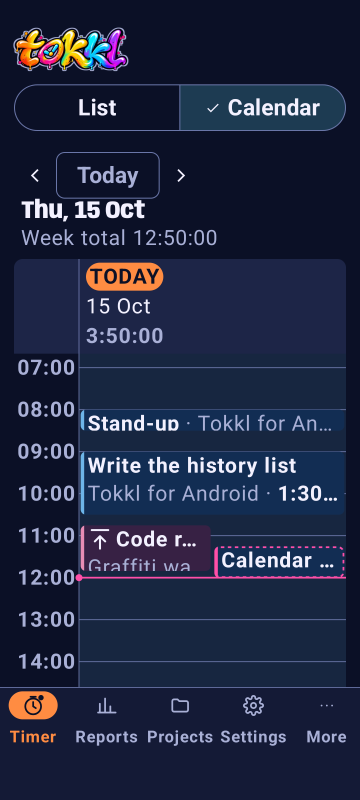
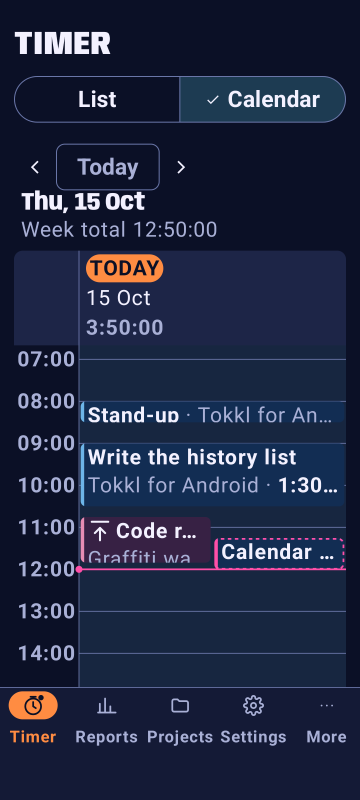
feat: title the Timer page instead of showing the wordmark
The Timer page now starts with its page title, TIMER, where the medium
wordmark sat, with the same spacing as the other top-level pages. It is
a heading that TalkBack reads as "Timer", and on a short window it
scrolls away with the List and Calendar switch, as the wordmark did.
The wordmark stays on sign-in.

docs/PRD.md now says the wordmark appears only on the sign-in screen and
the launch splash, never in a page header or top bar. AGENTS.md,
README.md and the KDocs of TimerScreen, WeekCalendar, BrandSize and the
brand sizes screenshot no longer place the wordmark on the Timer page
or in a header.

LaunchScreenTest checks the title heading and that no wordmark shows,
LargestFontScaleTest counts the title among the Timer page's parts, and
the eight timer and calendar references are re-recorded on tokkl-api36.

Refs: TKA-0182

Changed region(s): [[0.0306, 0.4062, 0.9778, 0.8438], [0.0306, 0.0312, 0.9778, 0.4375], [0.825, 0.5938, 0.9472, 0.625]]

diff --git a/app/src/androidTest/java/com/github/e0ipso/tokkl/LaunchScreenTest.kt b/app/src/androidTest/java/com/github/e0ipso/tokkl/LaunchScreenTest.kt
@@ -2,16 +2,20 @@ package com.github.e0ipso.tokkl
 
 import androidx.annotation.StringRes
 import androidx.compose.ui.semantics.Role
+import androidx.compose.ui.semantics.SemanticsActions
 import androidx.compose.ui.semantics.SemanticsProperties
 import androidx.compose.ui.semantics.getOrNull
 import androidx.compose.ui.test.SemanticsMatcher
+import androidx.compose.ui.test.assertCountEquals
 import androidx.compose.ui.test.assertIsDisplayed
 import androidx.compose.ui.test.assertIsSelected
+import androidx.compose.ui.test.hasContentDescription
 import androidx.compose.ui.test.hasText
+import androidx.compose.ui.test.isHeading
 import androidx.compose.ui.test.isSelectable
 import androidx.compose.ui.test.junit4.v2.createAndroidComposeRule
-import androidx.compose.ui.test.onNodeWithContentDescription
-import com.github.e0ipso.tokkl.ui.assertBrandReadsOnce
+import androidx.compose.ui.test.performSemanticsAction
+import androidx.compose.ui.text.TextLayoutResult
 import org.junit.Assert.assertEquals
 import org.junit.Rule
 import org.junit.Test
@@ -25,15 +29,14 @@ class LaunchScreenTest {
     val composeRule = createAndroidComposeRule<MainActivity>()
 
     /**
-     * The page shows the brand, where the timer goes, and the List and Calendar switch with List
+     * The page shows its title, where the timer goes, and the List and Calendar switch with List
      * chosen. The bar holds the web app's phone items in its order, and marks Timer.
      */
     @Test
     fun opensOnTheTimerPageWithTheBottomBar() {
         composeRule.awaitTimerPage()
 
-        // The brand's wordmark, an image that TalkBack reads as the app's name.
-        composeRule.onNodeWithContentDescription(string(R.string.app_name)).assertIsDisplayed()
+        composeRule.onNode(hasText(string(R.string.nav_timer)) and isHeading()).assertIsDisplayed()
         composeRule.onNode(hasText(string(R.string.timer_view_list)) and isSelectable()).assertIsSelected()
         composeRule.onNode(hasText(string(R.string.timer_view_calendar)) and isSelectable()).assertIsDisplayed()
 
@@ -46,12 +49,23 @@ class LaunchScreenTest {
         assertEquals(listOf(true, false, false, false, false), tabs.map { it.config.getOrNull(SemanticsProperties.Selected) })
     }
 
-    /** TalkBack reads the brand on the Timer page, the wordmark alone, once, as "Tokkl". */
+    /**
+     * The page title shows in capitals, and TalkBack reads it once, as the heading "Timer" in
+     * sentence case. No wordmark shows: it appears only on sign-in and the launch splash.
+     */
     @Test
-    fun theBrandIsOneTalkBackNode() {
+    fun theTitleIsOneTalkBackHeadingAndNoWordmarkShows() {
         composeRule.awaitTimerPage()
 
-        composeRule.assertBrandReadsOnce()
+        val title = string(R.string.nav_timer)
+        val headings = composeRule.onAllNodes(hasText(title) and isHeading())
+        headings.assertCountEquals(1)
+        val heading = headings[0]
+        assertEquals(listOf(title), heading.fetchSemanticsNode().config.getOrNull(SemanticsProperties.Text)?.map { it.text })
+        val drawn = mutableListOf<TextLayoutResult>()
+        heading.performSemanticsAction(SemanticsActions.GetTextLayoutResult) { it(drawn) }
+        assertEquals(title.uppercase(), drawn.single().layoutInput.text.text)
+        composeRule.onAllNodes(hasContentDescription(string(R.string.app_name))).assertCountEquals(0)
     }
 
     private fun string(@StringRes id: Int): String = composeRule.activity.getString(id)

diff --git a/app/src/main/java/com/github/e0ipso/tokkl/timer/TimerScreen.kt b/app/src/main/java/com/github/e0ipso/tokkl/timer/TimerScreen.kt
@@ -15,11 +15,8 @@ import androidx.compose.material3.Text
 import androidx.compose.runtime.Composable
 import androidx.compose.ui.Modifier
 import androidx.compose.ui.res.stringResource
-import androidx.compose.ui.semantics.heading
-import androidx.compose.ui.semantics.semantics
 import com.github.e0ipso.tokkl.R
-import com.github.e0ipso.tokkl.ui.Brand
-import com.github.e0ipso.tokkl.ui.BrandSize
+import com.github.e0ipso.tokkl.ui.PageTitle
 import com.github.e0ipso.tokkl.ui.ScrollAwayColumn
 import com.github.e0ipso.tokkl.ui.theme.ScrollingScreenInsets
 import com.github.e0ipso.tokkl.ui.theme.TokklTheme
@@ -40,11 +37,12 @@ enum class TimerView(@StringRes val label: Int, val preferenceValue: String) {
 /**
  * The Timer page, the first page after sign-in (docs/PRD.md B2), as the web app's TimerPage.tsx
  * lays it out: the timer, then the List and Calendar switch, then the entries in the chosen [view]. The timer
- * (TKA-0039) is not built yet, so the brand stands in its place.
+ * (TKA-0039) is not built yet. The page starts with its title, as the other top-level pages do,
+ * and never with the wordmark, which stays out of page headers (docs/PRD.md, Wordmark).
  *
  * [listContent], the history, and [calendarContent], the calendar, fill the rest of the page
  * under the switch, with a bounded height, so each scrolls on its own. On a window of compact
- * height, such as a phone held sideways, the brand and the switch scroll away as the entries
+ * height, such as a phone held sideways, the title and the switch scroll away as the entries
  * scroll on, so the entries get the page's whole height ([ScrollAwayColumn]).
  */
 @Composable
@@ -64,7 +62,7 @@ fun TimerScreen(
                 .screenContent(),
             top = {
                 Spacer(Modifier.height(TokklTheme.spacing.space2))
-                Brand(BrandSize.MEDIUM, Modifier.semantics { heading() })
+                PageTitle(stringResource(R.string.nav_timer))
                 Spacer(Modifier.height(TokklTheme.spacing.underTopBar))
                 ViewSwitch(view, onViewChange)
                 Spacer(Modifier.height(TokklTheme.spacing.betweenGroups))

diff --git a/app/src/androidTest/java/com/github/e0ipso/tokkl/calendar/LandscapeCalendarTest.kt b/app/src/androidTest/java/com/github/e0ipso/tokkl/calendar/LandscapeCalendarTest.kt
@@ -50,10 +50,10 @@ import org.junit.rules.RuleChain
 
 /**
  * The Timer page's Calendar view on a phone held sideways, a window of compact height (docs/PRD.md
- * K1). Once the calendar scrolls on, the brand, the view switch and the toolbar have scrolled
- * away, and the grid shows at least [hourRows] whole hour rows under the day heads, which stay in
- * the window. The view switch and every toolbar control scroll back into the window whole, as
- * TalkBack scrolls to them.
+ * K1). Once the calendar scrolls on, the page title, the view switch and the toolbar have
+ * scrolled away, and the grid shows at least [hourRows] whole hour rows under the day heads,
+ * which stay in the window. The view switch and every toolbar control scroll back into the window
+ * whole, as TalkBack scrolls to them.
  */
 abstract class LandscapeCalendarTest(fontScale: Float, private val hourRows: Int) {
     private val composeRule = createEmptyComposeRule()

diff --git a/app/src/main/java/com/github/e0ipso/tokkl/calendar/WeekCalendar.kt b/app/src/main/java/com/github/e0ipso/tokkl/calendar/WeekCalendar.kt
@@ -108,7 +108,7 @@ import kotlinx.coroutines.delay
  * long as it lasts, in the account's timezone. On a compact window, a phone held upright, it
  * shows the chosen day alone, and the arrows and a swipe move a day instead of a week. On a
  * window of compact height, a phone held sideways, the toolbar scrolls away as the grid scrolls
- * on, after the Timer page's brand and switch, and the day heads stay. The running entry's block
+ * on, after the Timer page's title and switch, and the day heads stay. The running entry's block
  * grows with the phone's clock, once a minute while the page shows, and sends no request.
  */
 @Composable

diff --git a/app/src/main/java/com/github/e0ipso/tokkl/ui/Brand.kt b/app/src/main/java/com/github/e0ipso/tokkl/ui/Brand.kt
@@ -31,10 +31,10 @@ enum class BrandSize(
     internal val wordmarkWidth: Dp,
     @DrawableRes internal val wordmark: Int,
 ) {
-    /** A header strip. */
+    /** Tokkl's sm. No screen shows it: the wordmark never sits in a page header or a top bar. */
     SMALL(84.dp, R.drawable.tokkl_wordmark_sm),
 
-    /** Beside a column of navigation. */
+    /** Tokkl's md. No screen shows it either. */
     MEDIUM(130.dp, R.drawable.tokkl_wordmark_md),
 
     /** On its own above a screen's content, as on sign-in. */

diff --git a/app/src/androidTest/java/com/github/e0ipso/tokkl/ui/screenshot/ScreenshotTest.kt b/app/src/androidTest/java/com/github/e0ipso/tokkl/ui/screenshot/ScreenshotTest.kt
@@ -331,8 +331,8 @@ abstract class ScreenshotTest(private val dark: Boolean, private val fontScale: 
     }
 
     /**
-     * The brand's two smaller sizes, for a header strip and beside a navigation column, each with
-     * its own image. Sign-in shows the large one.
+     * The brand's two smaller sizes, each with its own image. No screen shows them, since the
+     * wordmark stays out of page headers and top bars. Sign-in shows the large one.
      */
     @SignedOut
     @Test

diff --git a/app/src/androidTest/java/com/github/e0ipso/tokkl/ui/theme/LargestFontScaleTest.kt b/app/src/androidTest/java/com/github/e0ipso/tokkl/ui/theme/LargestFontScaleTest.kt
@@ -642,7 +642,7 @@ class LargestFontScaleTest {
      */
     private fun timerPageParts(): List<Pair<String, SemanticsNodeInteraction>> =
         listOf(
-            brand(),
+            heading(R.string.nav_timer),
             "view switch" to composeRule.onNode(
                 SemanticsMatcher.keyIsDefined(SemanticsProperties.SelectableGroup) and
                     hasAnyDescendant(hasText(string(R.string.timer_view_list))),

diff --git a/docs/PRD.md b/docs/PRD.md
@@ -77,7 +77,7 @@ Decisions:
 - **Colour.** Always Tokkl's palette, never the wallpaper. Light theme: sand background, ink text, sunset orange primary, aqua secondary, hot pink and lime for states. Dark theme: navy background with the neon counterparts. The source of truth is the colour tokens in `../tokkl/packages/web/src/styles.css`. Dynamic color is off, at most an opt-in setting.
 - **Type.** Anybody for the running clock, totals and headings, bundled with the app. Tokkl already ships it under the SIL Open Font License 1.1 (`../tokkl/packages/web/public/fonts/OFL.txt`). Everything else uses the system font.
 - **Spacing and type scale.** Spacing is 4, 8, 12, 16, 20, 24, 32 and 48dp, Tokkl's `--space-1` to `--space-8`. Screens keep a 16dp margin on compact widths and 24dp on medium and wider, and content is capped at 600dp. Anybody, always at width 85, sets the page title (28sp, weight 900, uppercase), clock (36sp, 800), totals (28sp, 800), day total (22sp, 800), day header (17sp, 900, uppercase), card title (18sp, 800) and section heading (16sp, 800). The system font sets body text at 16, 14 and 12sp, the small-caps label at 12sp weight 700 and the button label at 14sp weight 700. A monospace role sets fingerprints and codes.
-- **Wordmark.** The owner's graffiti artwork, shipped as an image with the content description "Tokkl" for TalkBack, so it uses no font. In dark mode a 1dp halo in `--wordmark-halo` (#A9B0D6) traces its edge, because the artwork's navy outline matches the background there. Light mode draws no halo. See `../tokkl/docs/PRD.md`, Visual direction, Typeface.
+- **Wordmark.** The owner's graffiti artwork, shipped as an image with the content description "Tokkl" for TalkBack, so it uses no font. It appears on the sign-in screen and the launch splash only, never in a page header or a top bar. In dark mode a 1dp halo in `--wordmark-halo` (#A9B0D6) traces its edge, because the artwork's navy outline matches the background there. Light mode draws no halo. See `../tokkl/docs/PRD.md`, Visual direction, Typeface.
 - **Logo.** The logo appears only as the launcher icon, never beside the wordmark. The wordmark's "o" is a clock, but that clock is a letter of the wordmark, not the logo.
 - **Texture.** Gradients or vectors only, never raster images, and never behind inputs or data. See `../tokkl/docs/PRD.md`, Visual direction, Texture.
 - **Type effects.** Rotated or skewed type is decoration only. It never appears on controls, numbers or labels. See `../tokkl/docs/PRD.md`, Visual direction, Type effects.

diff --git a/AGENTS.md b/AGENTS.md
@@ -1,6 +1,6 @@
 # Tokkl for Android
 
-Native Android client for the Tokkl server and for Toggl Track. The repo holds a Gradle project with a sign-in screen and, behind a bottom navigation bar, a Timer page that lists past entries by day or shows them on a week calendar, with the brand where the timer will go, a Reports screen with the summary, detailed and weekly reports, Projects and Clients pages that create, edit, archive and restore projects and clients on the server, a Tags page that creates, renames and deletes tags, a placeholder page for the trash, a settings screen and a Licences screen so far, joined by a navigation host, plus an offline cache of the account's data and a queue that sends time entry changes made on the phone, in order; [docs/PRD.md](docs/PRD.md) is the source of truth for scope and decisions.
+Native Android client for the Tokkl server and for Toggl Track. The repo holds a Gradle project with a sign-in screen and, behind a bottom navigation bar, a Timer page that lists past entries by day or shows them on a week calendar, a Reports screen with the summary, detailed and weekly reports, Projects and Clients pages that create, edit, archive and restore projects and clients on the server, a Tags page that creates, renames and deletes tags, a placeholder page for the trash, a settings screen and a Licences screen so far, joined by a navigation host, plus an offline cache of the account's data and a queue that sends time entry changes made on the phone, in order; [docs/PRD.md](docs/PRD.md) is the source of truth for scope and decisions.
 
 - The server lives in the sibling repo `../tokkl` (github.com/e0ipso/tokkl). Its `docs/PRD.md` section 6 lists the Toggl API v9 and Reports v3 endpoints Tokkl implements, and section 4 has the visual direction this app borrows from.
 - Commits follow Conventional Commits, as in tokkl. Ticket IDs (`TKA-NNNN`, tracked with sift in `.ai/sift`) go in a `Refs:` trailer, never in the subject. Commits carry no AI or co-author credit lines.

diff --git a/README.md b/README.md
@@ -2,7 +2,7 @@
 
 A native Android client for [Tokkl](https://github.com/e0ipso/tokkl) and Toggl Track.
 
-The app is a Gradle project with a sign-in screen and, behind a bottom navigation bar like the web app's on phones, a Timer page that lists past entries by day or shows them on a week calendar, with the brand where the timer will go, a reports screen with the summary, detailed and weekly reports, Projects and Clients pages that create, edit, archive and restore projects and clients on the server, a Tags page that creates, renames and deletes tags, a placeholder page for the trash, a settings screen and a Licences screen so far, joined by a navigation host. The product requirements live in [docs/PRD.md](docs/PRD.md).
+The app is a Gradle project with a sign-in screen and, behind a bottom navigation bar like the web app's on phones, a Timer page that lists past entries by day or shows them on a week calendar, a reports screen with the summary, detailed and weekly reports, Projects and Clients pages that create, edit, archive and restore projects and clients on the server, a Tags page that creates, renames and deletes tags, a placeholder page for the trash, a settings screen and a Licences screen so far, joined by a navigation host. The product requirements live in [docs/PRD.md](docs/PRD.md).
 
 ## Building
 
